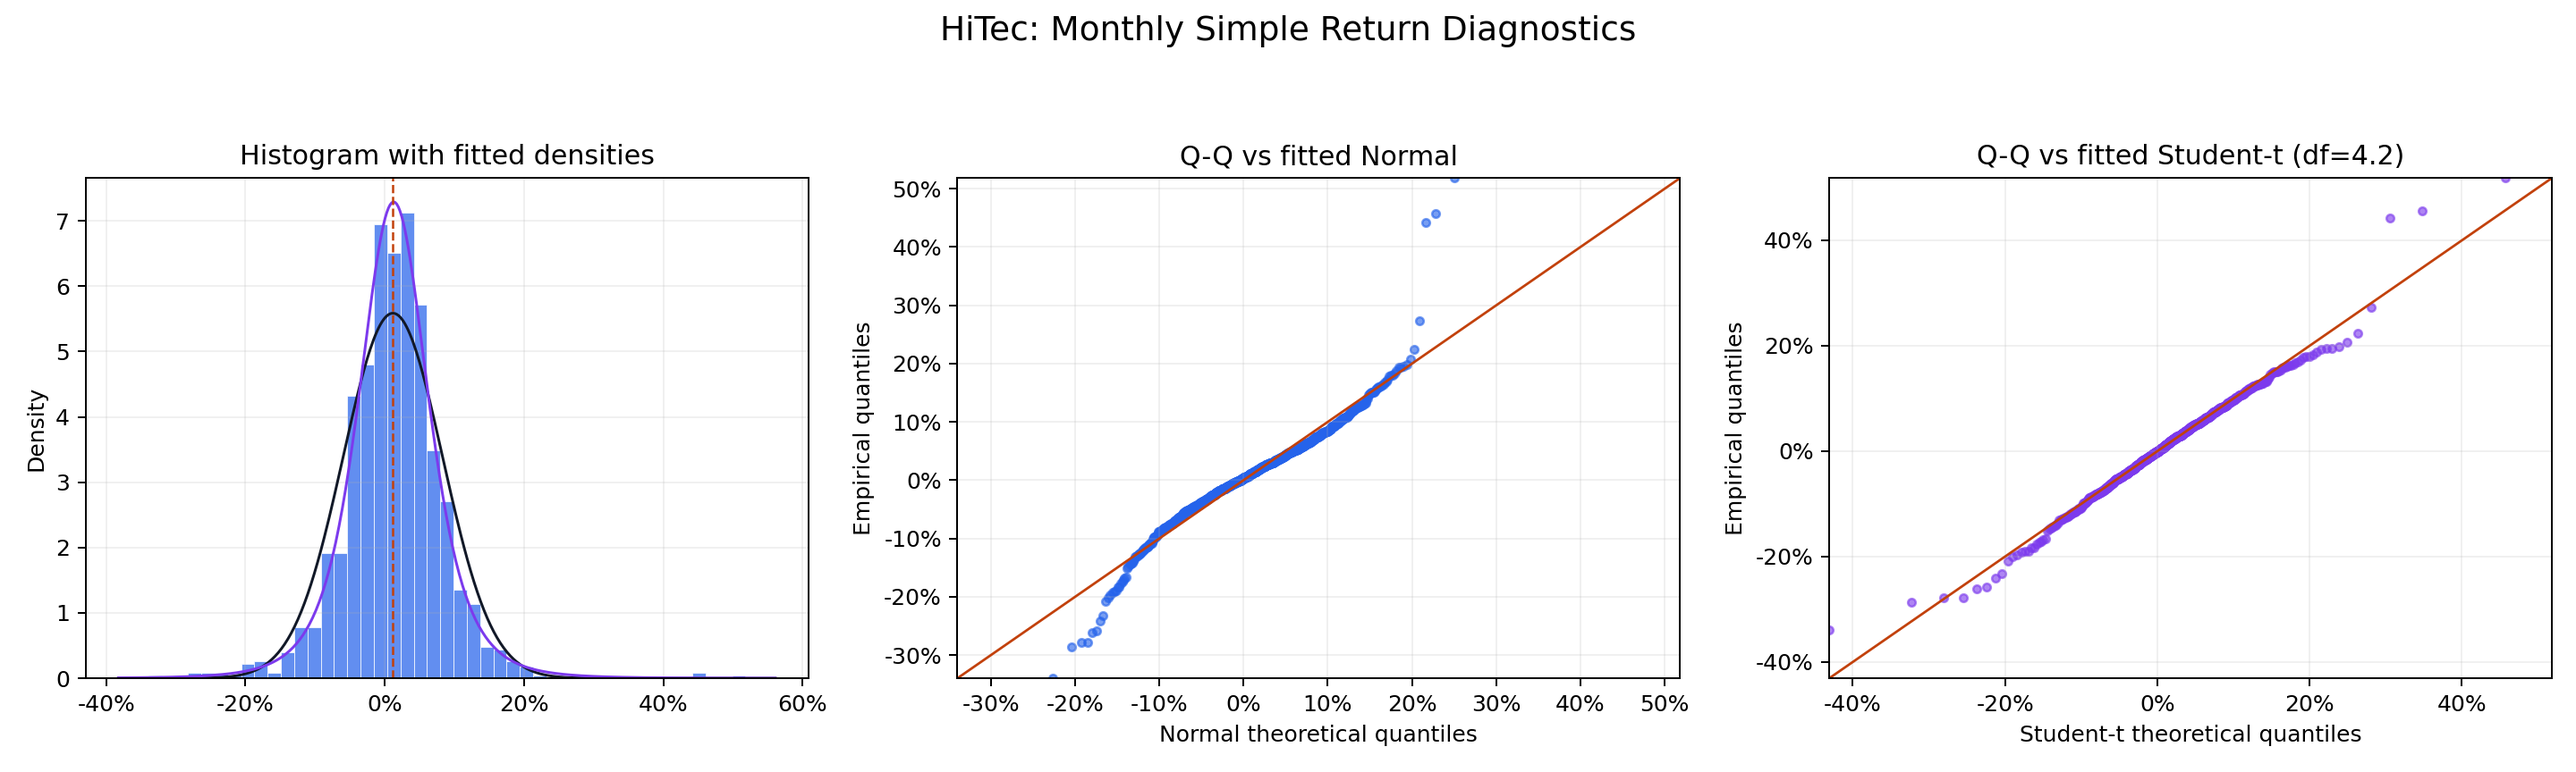
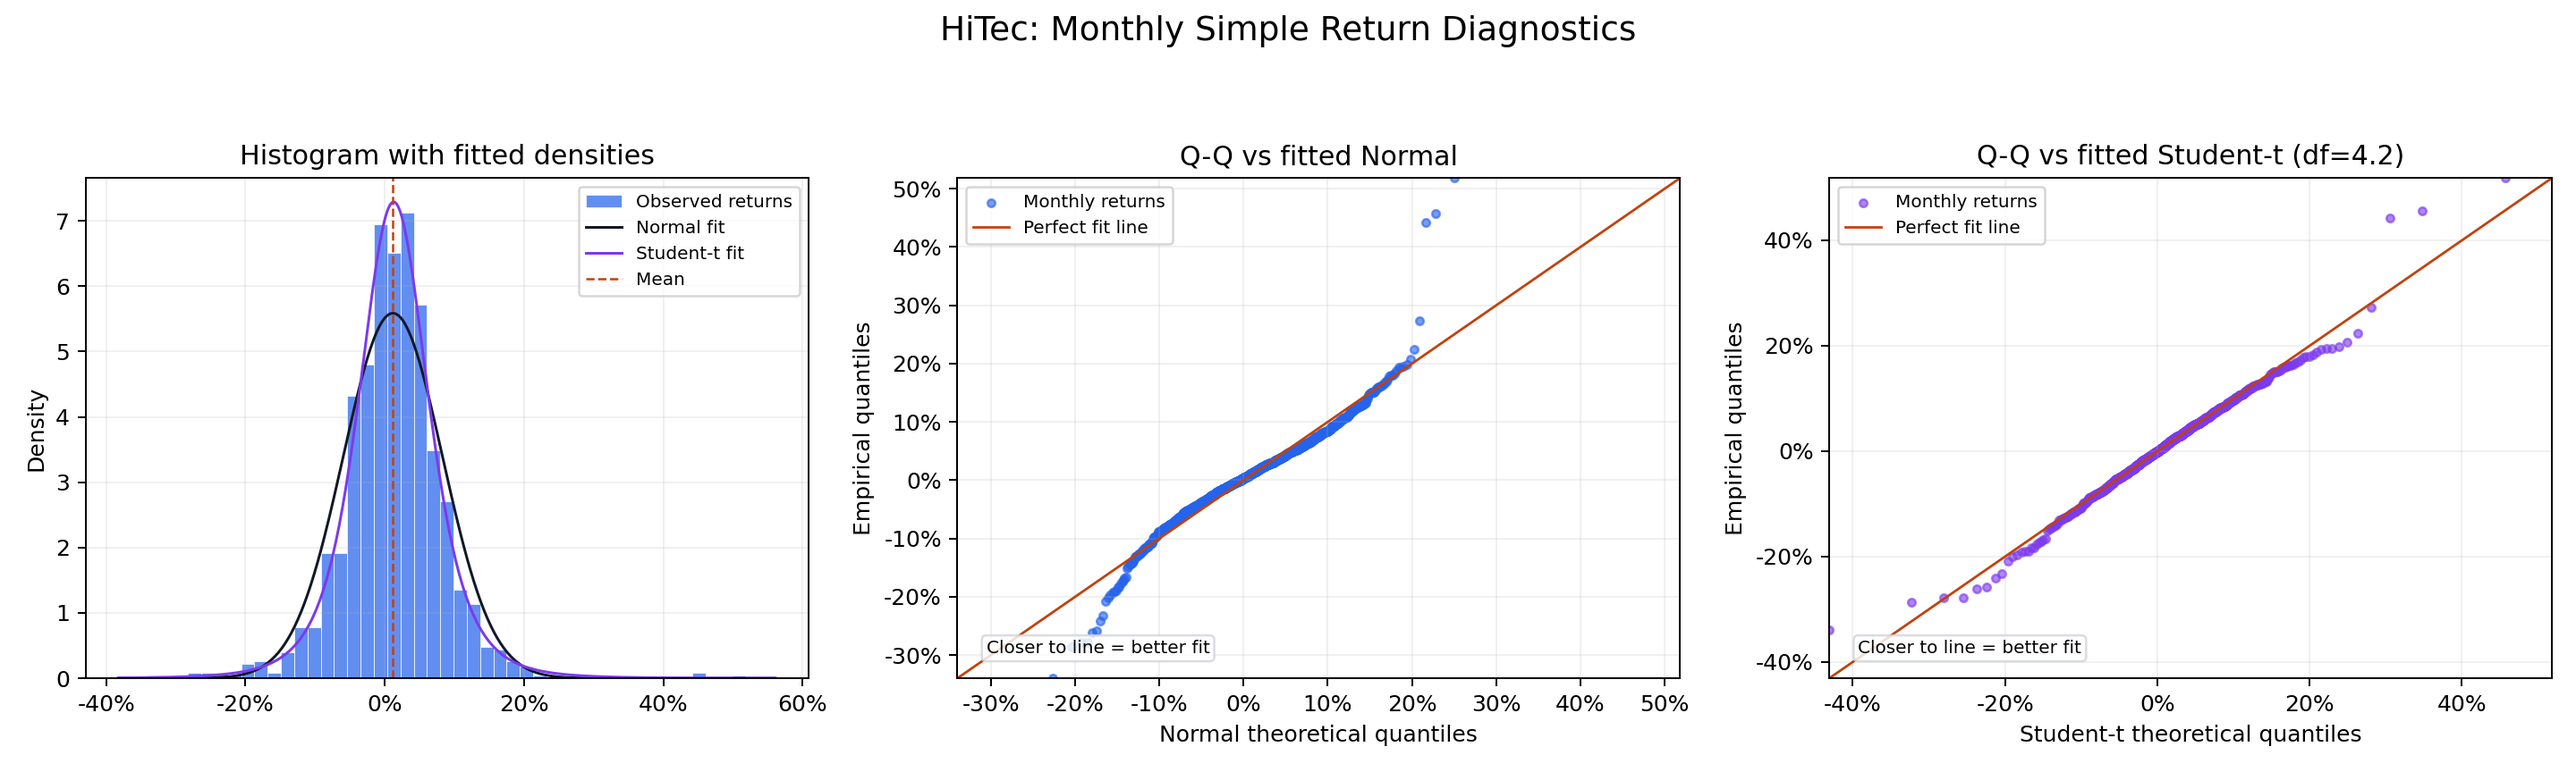
Label distribution diagnostic plots

diff --git a/scripts/plot_industry_distributions.py b/scripts/plot_industry_distributions.py
@@ -81,7 +81,13 @@ def qq_quantiles_student_t(values: np.ndarray) -> tuple[np.ndarray, np.ndarray, 
 def add_reference_line(axis: plt.Axes, x_values: np.ndarray, y_values: np.ndarray) -> None:
     lower = min(float(np.min(x_values)), float(np.min(y_values)))
     upper = max(float(np.max(x_values)), float(np.max(y_values)))
-    axis.plot([lower, upper], [lower, upper], color="#c2410c", linewidth=1.1)
+    axis.plot(
+        [lower, upper],
+        [lower, upper],
+        color="#c2410c",
+        linewidth=1.1,
+        label="Perfect fit line",
+    )
     axis.set_xlim(lower, upper)
     axis.set_ylim(lower, upper)
 
@@ -106,6 +112,7 @@ def save_histogram_grid(industry_returns: dict[str, np.ndarray]) -> Path:
             alpha=0.72,
             edgecolor="white",
             linewidth=0.4,
+            label="Observed returns",
         )
 
         x_min, x_max = axis.get_xlim()
@@ -148,23 +155,39 @@ def save_industry_diagnostic_plot(industry: str, values: np.ndarray) -> Path:
         alpha=0.72,
         edgecolor="white",
         linewidth=0.4,
+        label="Observed returns",
     )
     x_min, x_max = axes[0].get_xlim()
     x_grid = np.linspace(x_min, x_max, 400)
-    axes[0].plot(x_grid, stats.norm.pdf(x_grid, loc=mu, scale=sigma), color="#111827", linewidth=1.2)
+    axes[0].plot(
+        x_grid,
+        stats.norm.pdf(x_grid, loc=mu, scale=sigma),
+        color="#111827",
+        linewidth=1.2,
+        label="Normal fit",
+    )
     axes[0].plot(
         x_grid,
         stats.t.pdf(x_grid, df=degrees_of_freedom, loc=location, scale=scale),
         color="#7c3aed",
         linewidth=1.2,
+        label="Student-t fit",
     )
-    axes[0].axvline(mu, color="#c2410c", linewidth=1.0, linestyle="--")
+    axes[0].axvline(mu, color="#c2410c", linewidth=1.0, linestyle="--", label="Mean")
     axes[0].set_title("Histogram with fitted densities")
     axes[0].set_ylabel("Density")
     axes[0].grid(alpha=0.18)
     format_percent_axis(axes[0])
+    axes[0].legend(loc="upper right", fontsize=8, frameon=True)
 
-    axes[1].scatter(normal_theoretical, normal_empirical, s=12, alpha=0.62, color="#2563eb")
+    axes[1].scatter(
+        normal_theoretical,
+        normal_empirical,
+        s=12,
+        alpha=0.62,
+        color="#2563eb",
+        label="Monthly returns",
+    )
     add_reference_line(axes[1], normal_theoretical, normal_empirical)
     axes[1].set_title("Q-Q vs fitted Normal")
     axes[1].set_xlabel("Normal theoretical quantiles")
@@ -172,8 +195,24 @@ def save_industry_diagnostic_plot(industry: str, values: np.ndarray) -> Path:
     axes[1].grid(alpha=0.18)
     format_percent_axis(axes[1])
     axes[1].yaxis.set_major_formatter(lambda value, _position: f"{value * 100:.0f}%")
+    axes[1].legend(loc="upper left", fontsize=8, frameon=True)
+    axes[1].text(
+        0.04,
+        0.05,
+        "Closer to line = better fit",
+        transform=axes[1].transAxes,
+        fontsize=8,
+        bbox={"boxstyle": "round,pad=0.25", "facecolor": "white", "alpha": 0.82, "edgecolor": "#d1d5db"},
+    )
 
-    axes[2].scatter(student_theoretical, student_empirical, s=12, alpha=0.62, color="#7c3aed")
+    axes[2].scatter(
+        student_theoretical,
+        student_empirical,
+        s=12,
+        alpha=0.62,
+        color="#7c3aed",
+        label="Monthly returns",
+    )
     add_reference_line(axes[2], student_theoretical, student_empirical)
     axes[2].set_title(f"Q-Q vs fitted Student-t (df={degrees_of_freedom:.1f})")
     axes[2].set_xlabel("Student-t theoretical quantiles")
@@ -181,6 +220,15 @@ def save_industry_diagnostic_plot(industry: str, values: np.ndarray) -> Path:
     axes[2].grid(alpha=0.18)
     format_percent_axis(axes[2])
     axes[2].yaxis.set_major_formatter(lambda value, _position: f"{value * 100:.0f}%")
+    axes[2].legend(loc="upper left", fontsize=8, frameon=True)
+    axes[2].text(
+        0.04,
+        0.05,
+        "Closer to line = better fit",
+        transform=axes[2].transAxes,
+        fontsize=8,
+        bbox={"boxstyle": "round,pad=0.25", "facecolor": "white", "alpha": 0.82, "edgecolor": "#d1d5db"},
+    )
 
     figure.tight_layout(rect=(0, 0, 1, 0.92))
     figure.savefig(output_path, dpi=180)
